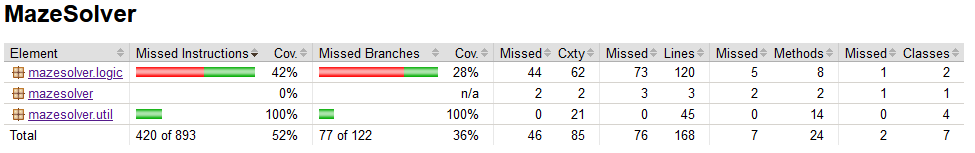
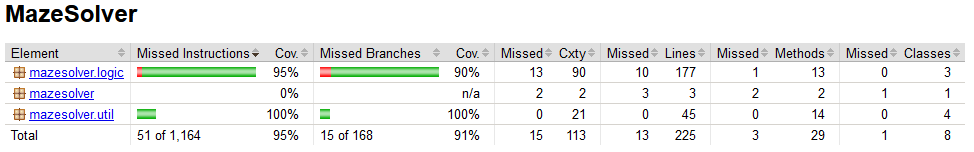
Dokumentaatio

diff --git a/Dokumentaatio/toteutus.md b/Dokumentaatio/toteutus.md
@@ -1,0 +1,36 @@
+# Ohjelman toteutus
+
+## Yleisrakenne
+
+### Pakkaukset
+
+- `mazesolver.logic` - sisältää sovelluslogiikan ja algoritmit
+- `mazesolver.ui` - sisältää käyttöliittymään liittyvät luokat
+- `mazesolver.util` - sisältää tarvittavat tietorakenteet
+
+### Logic
+
+- Maze: Generoi ja hallitsee labyrinttiä
+- WallFollower: Ratkaisee labyrintin käyttäen wall follower-algoritmia
+- DeadEndFilling: Ratkaisee labyrintin käyttäen dead-end filling-algoritmia
+
+### UI
+
+- MazeSolverUI: Luo, piirtää ja hallitsee käyttöliittymää
+
+### Util
+
+- List: Yksinkertainen lista tietorakenne
+- Pair: Yksinkertainen pari tietorakenne
+- Stack: Dynaaminen pino tietorakenne
+
+### Muut
+
+- Main: Ohjelman pääluokka mikä käynnistää käyttöliittymän
+- Test: Sisältää sovelluksen testaamiseen käytettävät luokat
+
+## Suorituskyky- ja O-analyysivertailu
+
+## Puutteet ja parannusehdotukset
+
+## Lähteet

diff --git a/Dokumentaatio/testaus.md b/Dokumentaatio/testaus.md
@@ -18,4 +18,4 @@ Raportin tulos löytyy _target/site/jacoco/_ -hakemistosta nimellä _index.html_
 
 ## Testikattavuus
 
-<img src="https://raw.githubusercontent.com/jarkmaen/labyrintin-ratkaisija/master/Dokumentaatio/Kuvat/Testikattavuus.PNG">
+<img src="https://raw.githubusercontent.com/jarkmaen/labyrintin-ratkaisija/master/Dokumentaatio/kuvat/testikattavuus.PNG">
